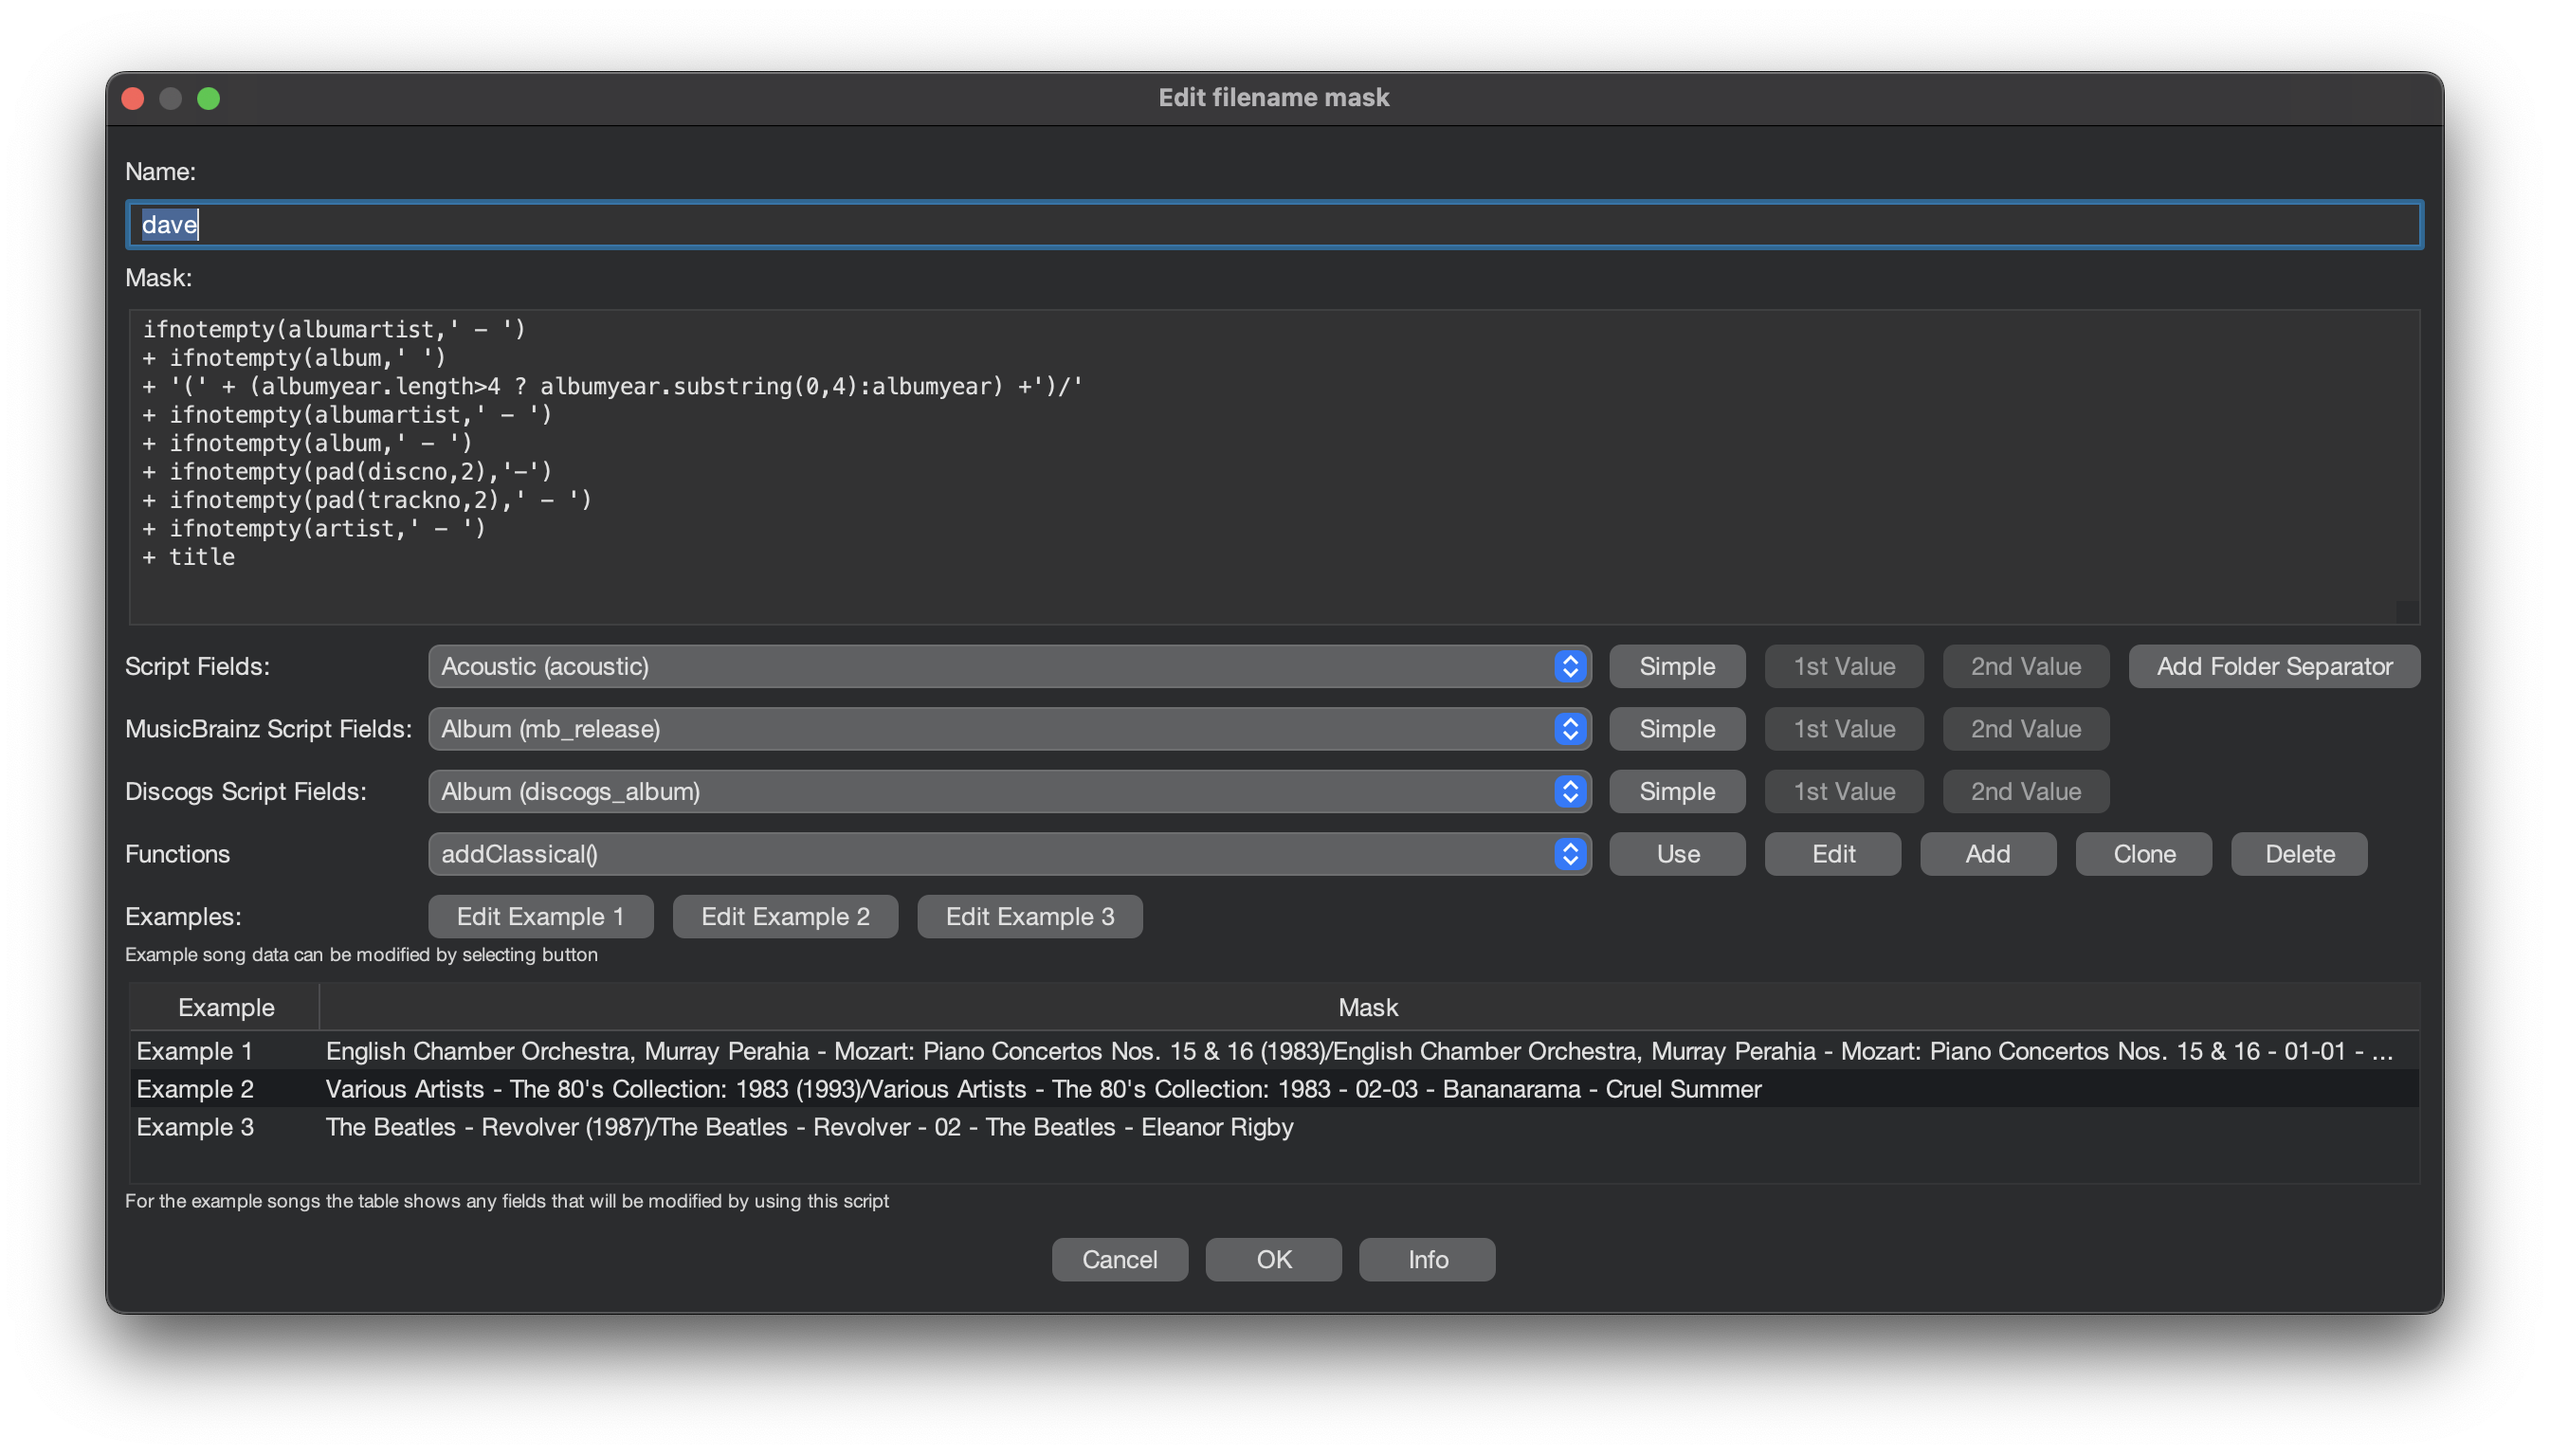
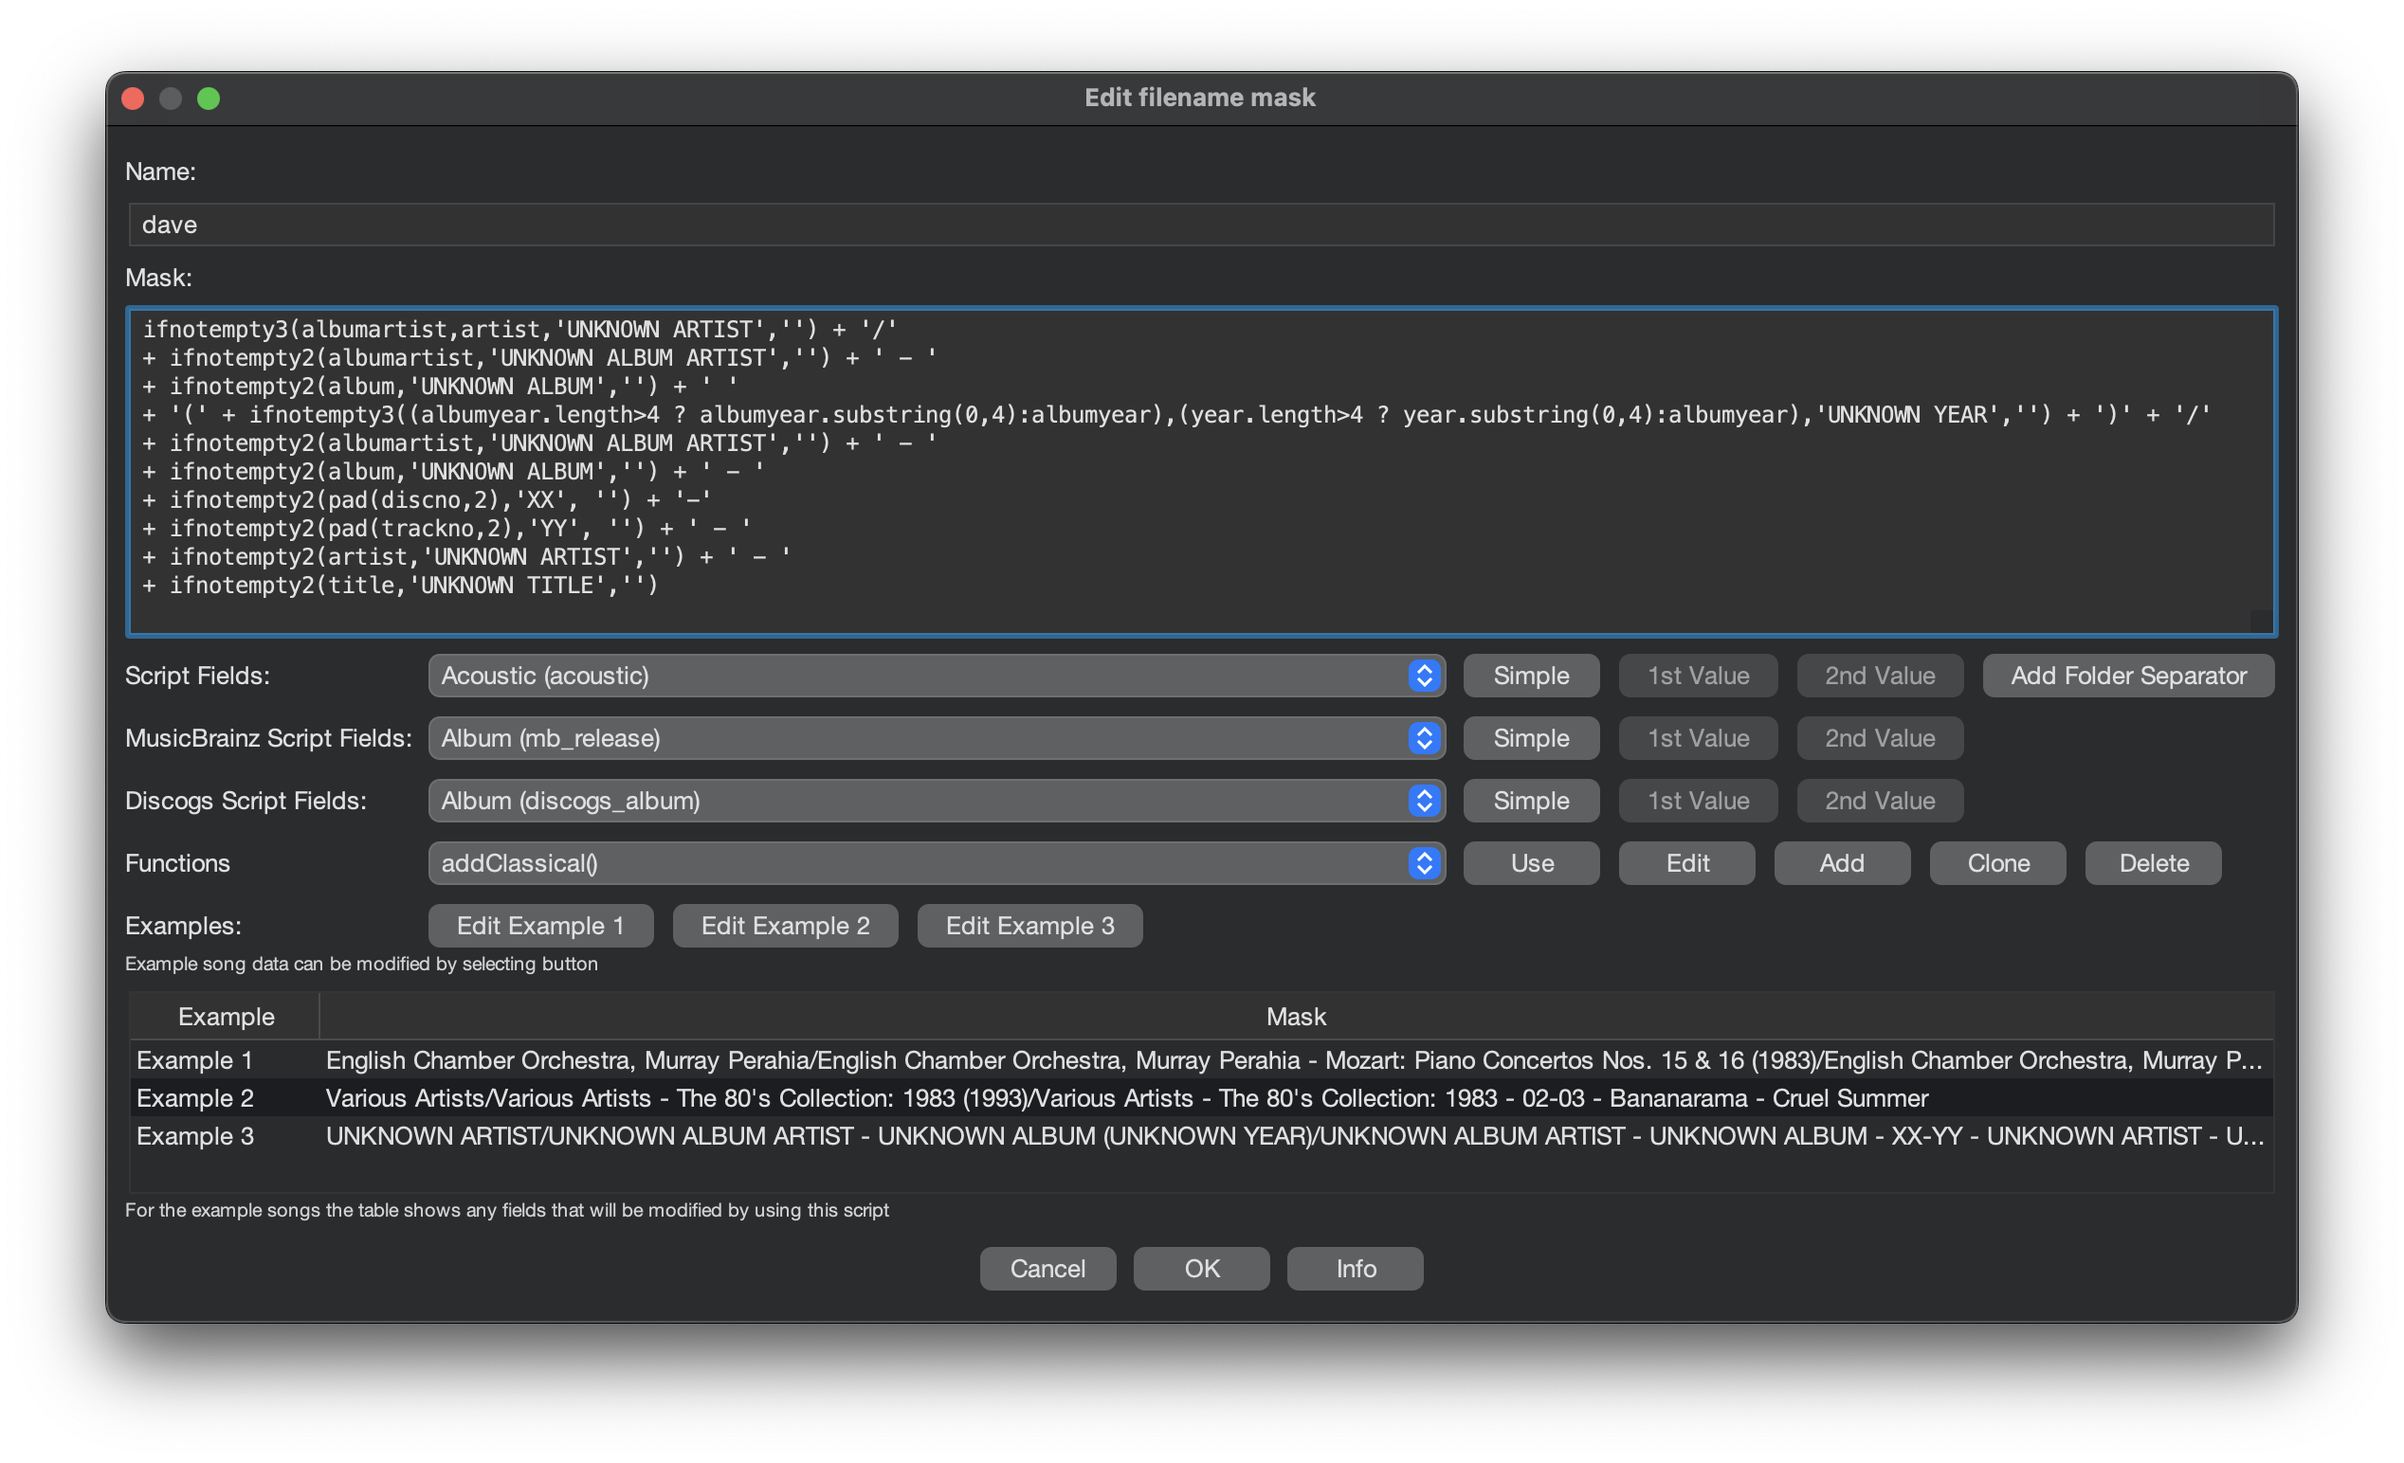
songkong update

diff --git a/music/commands.md b/music/commands.md
@@ -34,15 +34,16 @@ Pretty sure [XLD][link-xld] is unused.
 ## SongKong
 
 ```text
-ifnotempty(albumartist,' - ')
-+ ifnotempty(album,' ')
-+ '(' + (albumyear.length>4 ? albumyear.substring(0,4):albumyear) +')/'
-+ ifnotempty(albumartist,' - ')
-+ ifnotempty(album,' - ')
-+ ifnotempty(pad(discno,2),'-')
-+ ifnotempty(pad(trackno,2),' - ')
-+ ifnotempty(artist,' - ')
-+ title
+ifnotempty3(albumartist,artist,'UNKNOWN ARTIST','') + '/'
++ ifnotempty2(albumartist,'UNKNOWN ALBUM ARTIST','') + ' - '
++ ifnotempty2(album,'UNKNOWN ALBUM','') + ' '
++ '(' + ifnotempty3((albumyear.length>4 ? albumyear.substring(0,4):albumyear),(year.length>4 ? year.substring(0,4):albumyear),'UNKNOWN YEAR','') + ')' + '/'
++ ifnotempty2(albumartist,'UNKNOWN ALBUM ARTIST','') + ' - '
++ ifnotempty2(album,'UNKNOWN ALBUM','') + ' - '
++ ifnotempty2(pad(discno,2),'XX', '') + '-'
++ ifnotempty2(pad(trackno,2),'YY', '') + ' - '
++ ifnotempty2(artist,'UNKNOWN ARTIST','') + ' - '
++ ifnotempty2(title,'UNKNOWN TITLE','')
 ```
 
 ![SongKong rename settings][songkong.png]
